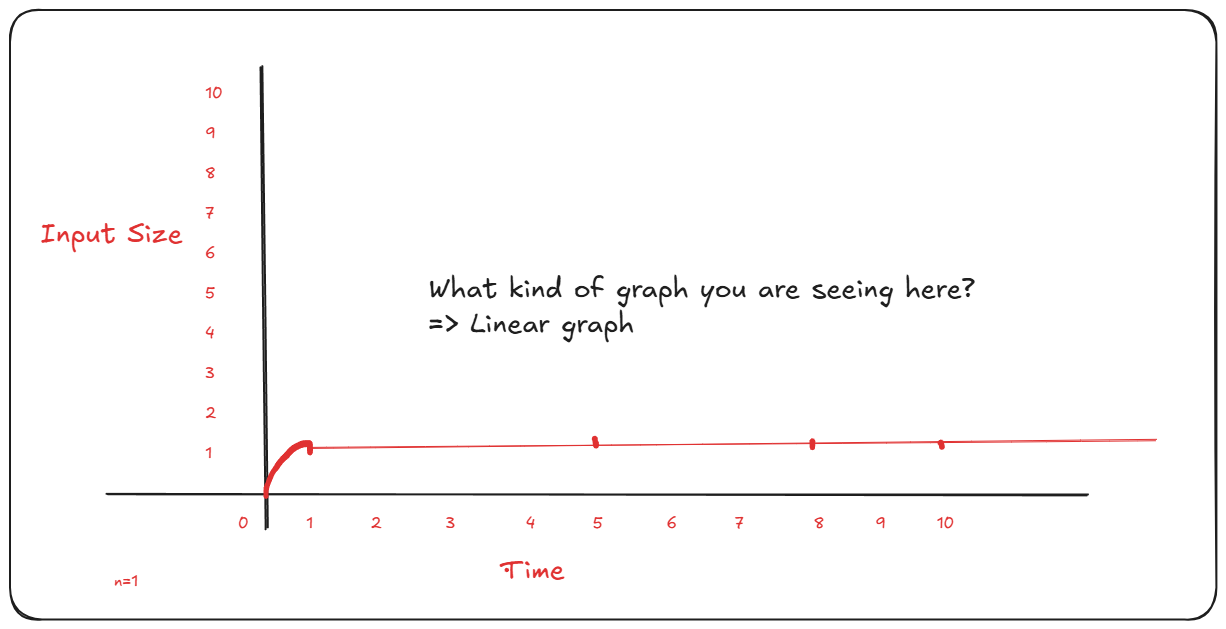
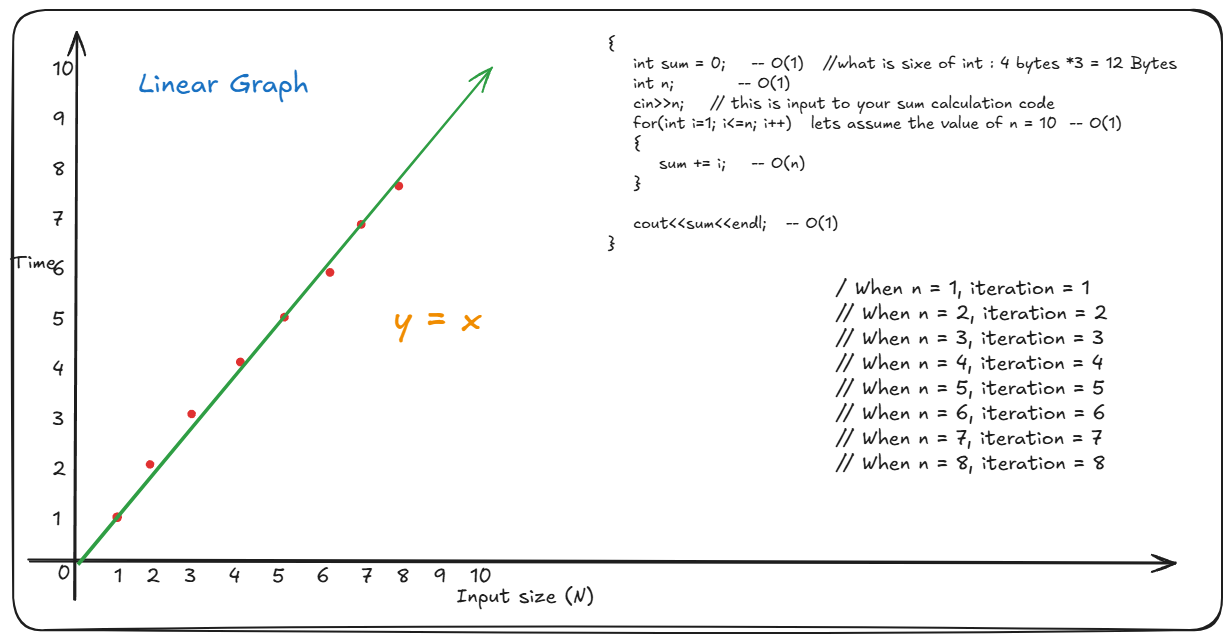
time graph

diff --git a/Yukti-2.0/Introduction_DS/Time_Space_Complexity/concept.cpp b/Yukti-2.0/Introduction_DS/Time_Space_Complexity/concept.cpp
@@ -12,36 +12,6 @@ The amount of space an algorithm/block of code utilizes from syatem to run when 
 key factors which affects the time and space required to run a code
 - The size of input which we feed to the program
 
-example
-
-{
-    int sum = 0;    -- O(1)
-    int n;          -- O(1)
-    cin>>n;    // this is input to your sum calculation code
-    for(int i=1; i<=n; i++)   lets assume the value of n = 10  -- O(1)
-    { 
-        sum += i;   
-    }
-
-    cout<<sum<<endl;
-}
-
-How much time it takes to run the above code?
--- The time and space complexity are denoted by using Big O notation [O(XYZ)]
--- For n=10, the above code will take 10 iteration to run
--- For n=10000 the above code will take 10000 iteration to run
-
-How much space the above code is taking to execute?
-a variable takes constant space O(1)
-an array of size n takes O(n) space coplexity
-O(1) + O(1) + O(1)
-O(1+1+1)
-O(3)      --- 3 is a constant value
-
-hence the space coplexity of above code is constant O(1).
-
-
-
 
 Types Time and space functions
 
@@ -52,11 +22,136 @@ Types Time and space functions
 5. O(n^3)   ---- Cubic
 6. O(2^n)   ---- Exponential 
 
-O(1) < O(n) < (log n) < O(n^2) < O(n^3) < O(n^n)
+Performance graph
+O(1) < O(n) < O(log n) < O(n^2) < O(n^3) < O(n^n)
+
+example
+
+O(n)     ---- Linear
+{
+    int sum = 0;    -- O(1)   //what is sixe of int : 4 bytes *3 = 12 Bytes
+    int n;          -- O(1)
+    cin>>n;    // this is input to your sum calculation code
+    for(int i=1; i<=n; i++)   lets assume the value of n = 10  -- O(1)
+    { 
+        sum += i;    -- O(n)
+    }
+
+    cout<<sum<<endl;   -- O(1)
+}
+
+How much time it takes to run the above code?
+-- The time and space complexity are denoted by using Big O notation [O(XYZ)]
+-- For n=10, the above code will take 10 iteration to run
+-- For n=10000 the above code will take 10000 iteration to run
+
+-- Time complexity = O(1) + O(1) + O(n) + O(1)
+                   = O(n+3)   = O(n^1 + (n^0*3))
+                   = O(n)
+
+How much space the above code is taking to execute?
+a variable takes constant space O(1)
+an array of size n takes O(n) space coplexity
+O(1) + O(1) + O(1)
+O(1+1+1)
+O(3)      --- 3 is a constant value
+
+hence the space coplexity of above code is constant O(1).
+
+// n = input size, Iteration = time required to run
+// When n = 1, iteration = 1  
+// When n = 2, iteration = 2 
+// When n = 3, iteration = 3 
+// When n = 4, iteration = 4 
+// When n = 5, iteration = 5 
+// When n = 6, iteration = 6 
+// When n = 7, iteration = 7 
+// When n = 8, iteration = 8 
+
+
+
+
+
+
+O(1)     ---- Constant
+{
+    int n;         -- O(1)     
+    cin>>n;        -- O(1)              O(1+1+1) = O(3) = O(1)
+    cout<<n;       -- O(1)
+
+
+    //In above code we are just declaring 1 integer variable
+    // Now what is the size of that Variable = 4 Bytes 
+
+    // when n=56     // space required to store 56    = 4 Bytes
+    // When n=50000  // space required to store 50000 = 4 Bytes
+    // When n=999    // space required to store 999   = 4 Bytes
+
+    The Time and space complexity of above code is O(1)
+}
+
+
+
+
 
 
 
 How to calculate the time and space complexity for different types of code blocks
 
+
+{
+    int n;                      -- O(1)
+    cin>>n;     // n=10         -- O(1)
+
+    for(int i=1; i<n; i=i+2)      --- O(n/2)
+    {
+        cout<<i<<endl;    -- 1+1+1+1+1 = 5
+    }
+}
+
+when n = 5, Number of iteration = 2
+when n = 10, Number of iteration = 5
+when n = 50, Number of iteration = 25
+
+Time complexity = O(1) + O(1) + (n/2)
+                = O(n/2 + 2)
+                = O(n/2)
+                = O(n)   -- Linear time complexity
+
+Space complexity = O(1) -- Constant
+
+
+{
+    int n;
+    cin>>n;   // n = 12
+
+    for(int i=1; i<n; i=i*2)
+    {
+        cout<<i;          1+1+1+1  
+    }
+}
+                        k
+for n = 10, iteration = 4
+for n = 28, iteration = 5
+for n = 34, iteration = 6
+for n = 20, iteration = 5
+for n = 12, iteration = 4
+
+
+The equation to determine Number of iteration for input n
+2*2*2*2 = 16
+1 <= 2^(k-1) <= n
+
+1 * 2^(k-1) = n
+2^(k-1) = n/1 = n
+
+K-1 = log Base2 n
+K = (log Base2 n) + 1
+K = log Base2 n
+K = log n
+What is your K = Amount of time rquired to run the code
+
+Time complexity = O(log n)
+space complexity = O(1)
 
 */
